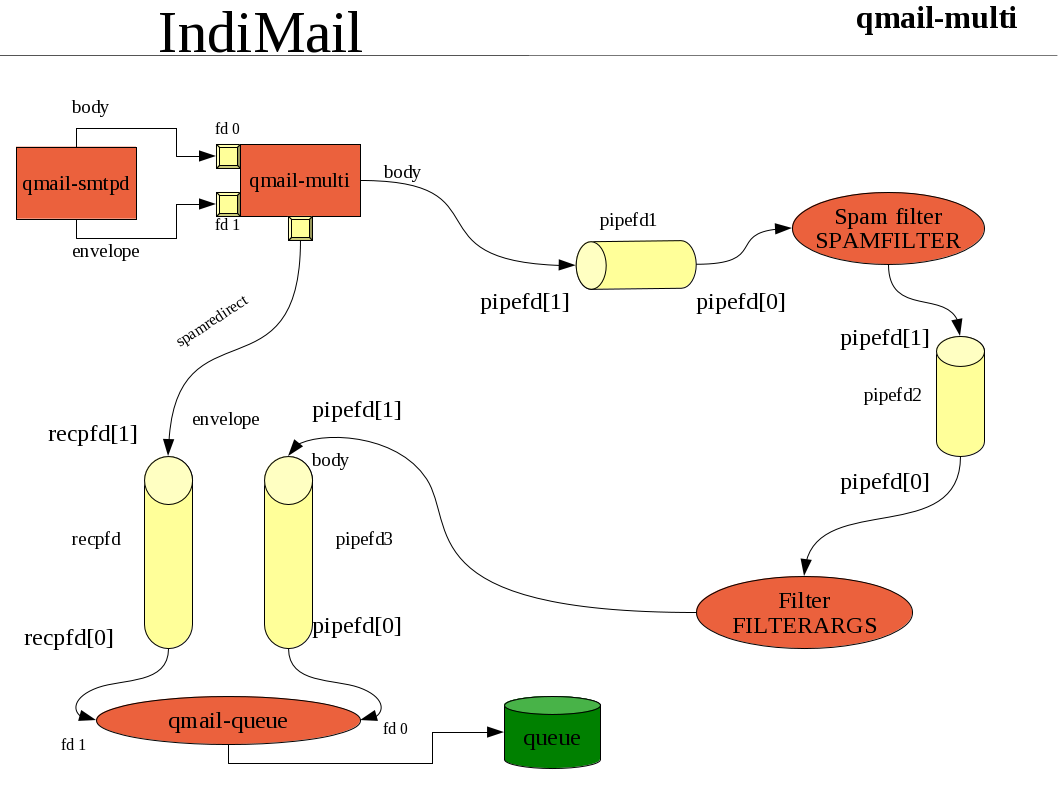
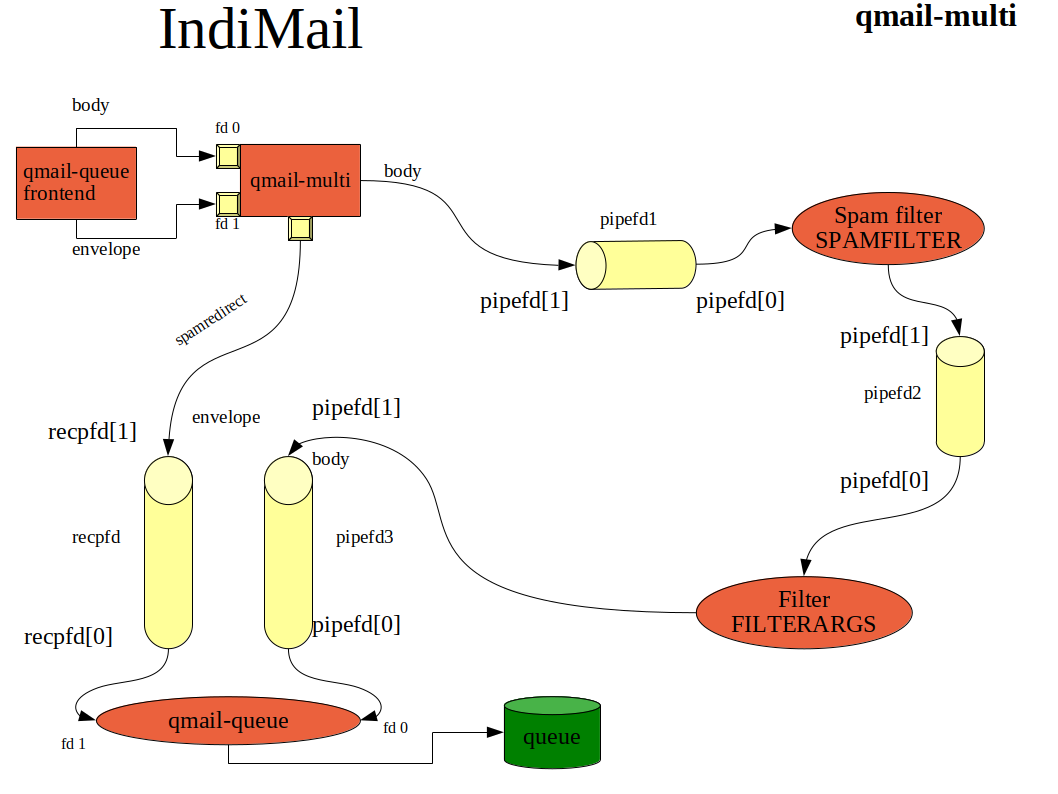
updated wiki

diff --git a/.github/README-indimail.md b/.github/README-indimail.md
@@ -220,7 +220,7 @@ To migrate from an existing proprietary mail server like MS Exchange requires 5 
 4. Modify your user's mail configuration to use SMTP, IMAP Proxy, POP3 Proxy ports on the IndiMail server (**proxypop3**, **proxyimap**)
 5. Change the MX to point to the indimail-mta server.
 
-IndiMail is highly configurable. No hard-coded directories of qmail like /var/qmail/control or /var/qmail/queue. All directories are configurable at run time. IndiMail has multiple queues and the queue destination directories are also configurable. You can have one IndiMail installation cater to multiple instances having different properties / configuration.  To set up a new IndiMail instance requires you to just set few environment variables. Unlike qmail/netqmail, IndiMail doesn't force you to recompile each time you require a new instance.  Multiple queues eliminates what is known as ['the silly qmail syndrome'](https://qmail.jms1.net/silly-qmail.shtml "silly-qmail-syndrome") and gives IndiMail the capability to perform better than a stock qmail installation. IndiMail's multiple queue architecture allows it to achieve tremendous inject rates using commodity hardware as can be read [here](http://groups.google.co.in/group/indimail/browse_thread/thread/f9e0b6214d88ca6d#). Here is a pictorial representation of the IndiMail queue ![Pictorial](indimail_queue.png).
+IndiMail is highly configurable. No hard-coded directories of qmail like /var/qmail/control or /var/qmail/queue. All directories are configurable at run time. IndiMail has multiple queues and the queue destination directories are also configurable. You can have one IndiMail installation cater to multiple instances having different properties / configuration.  To set up a new IndiMail instance requires you to just set few environment variables. Unlike qmail/netqmail, IndiMail doesn't force you to recompile each time you require a new instance.  Multiple queues eliminates what is known as ['the silly qmail syndrome'](https://qmail.jms1.net/silly-qmail.shtml "silly-qmail-syndrome") and gives IndiMail the capability to perform better than a stock qmail installation. IndiMail's multiple queue architecture allows it to achieve tremendous inject rates using commodity hardware as can be read [here](http://groups.google.co.in/group/indimail/browse_thread/thread/f9e0b6214d88ca6d#). You can see a pictorial representation of the queue as well as read the [indimail-mta INTERNALS](#indimail-mta-internals).
 
 IndiMail is a pure messaging solution. It does not provide calendars, todo lists, address books, meeting requests and a web mail front-end. However, you can use [RoundCubemail](https://roundcube.net/ "RoundCubemail") or any web mail front-end that works with IMAP or POP3 protocol with IndiMail. If you decide to install [RoundCubemail](https://roundcube.net/ "RoundCubemail"), you can install the **ircube** package from the IndiMail's DNF/YUM/Debian [Repository](https://build.opensuse.org/package/show/home:indimail/ircube "ircube") to have a fully functional web mail front-end. The ircube package provides plugins for Rouncube Mail to manage your passwords, vacation and SPAM filters.
 
@@ -624,7 +624,7 @@ $ sudo command - command requires root privilege to run. sudo was used to gain r
 
 # IndiMail Queue Mechanism
 
-IndiMail has multiple queues and the queue destination directories are also configurable. You can have one IndiMail installation cater to multiple instances having different properties / configuration. To set up a new IndiMail instance requires you to just set few environment variables. Unlike qmail/netqmail, IndiMail doesn't force you to recompile each time you require a new instance. Multiple queues eliminates what is known as ['the silly qmail syndrome'](https://qmail.jms1.net/silly-qmail.shtml "silly-qmail-syndrome") and gives IndiMail the capability to perform better than a stock qmail installation. IndiMail's multiple queue architecture allows it to achieve tremendous inject rates using commodity hardware as can be read [here](http://groups.google.co.in/group/indimail/browse_thread/thread/f9e0b6214d88ca6d#). Here is a pictorial representation of the IndiMail queue ![Pictorial](indimail_queue.png).
+IndiMail has multiple queues and the queue destination directories are also configurable. You can have one IndiMail installation cater to multiple instances having different properties / configuration. To set up a new IndiMail instance requires you to just set few environment variables. Unlike qmail/netqmail, IndiMail doesn't force you to recompile each time you require a new instance. Multiple queues eliminates what is known as ['the silly qmail syndrome'](https://qmail.jms1.net/silly-qmail.shtml "silly-qmail-syndrome") and gives IndiMail the capability to perform better than a stock qmail installation. IndiMail's multiple queue architecture allows it to achieve tremendous inject rates using commodity hardware as can be read [here](http://groups.google.co.in/group/indimail/browse_thread/thread/f9e0b6214d88ca6d#).
 
 When you have massive injecting rates, your software may place multiple files in a single directory. This drastically reduces file system performance. IndiMail avoids this by injecting your email in a queue consisting of multiple directories and mails distributed as evenly as possible across these directories.
 
@@ -646,13 +646,15 @@ Balancing of emails across multiple queues is achieved by the program qmail-mult
 14. replier
 15. rrforward
 
-The diagram below shows how qmail-multi(8) works ![qmail-multi](qmail_multi.png)
-
-You just need to configure the following environment variables to have the qmail-queue(8) frontends using qmail-multi(8)
+You just need to configure the following environment variables to have the qmail-queue(8) frontends use qmail-multi(8)
 
 1. QUEUE\_BASE – Base directory where all queues will be placed
 2. QUEUE\_COUNT – number of queues
 3. QUEUE\_START – numeric prefix of the first queue
+4. QMAILQUEUE - Path of qmail-multi (/usr/sbin/qmail-multi)
+5. QUEUEDIR - Not required if you set QUEUE\_BASE, QUEUE\_COUNT, QUEUE\_START. Else it should be full path to a queue (e.g. /var/indimail/queue/queue3). If QUEUEDIR is set, then QUEUE\_BASE, QUEUE\_COUNT and QUEUE\_START are not used.
+
+qmail-multi's job is to select a queue. indimail-mta uses multiple queue. If QUEUEDIR is set, it execs qmail-queue without doing anything. If QUEUEDIR is not defined, it uses QUEUE\_START, QUEUE\_COUNT and QUEUE\_BASE environment variables to set QUEUEDIR environment variable. QUEUE\_BASE is the common basename for all the queues. e.g. QUEUE\_BASE=/var/indimail/queue. Now, if QUEUE\_START is 1, QUEUE\_COUNT is 5, then qmail-multi will use the time to do a modulus operation and get a number ranging from 1 to 5. It will then set the QUEUEDIR environment variable to set any of the 5 queues in /var/indimail/queue. e.g. QUEUEDIR=/var/indimail/queue/queueX, where X is the number selected between 1 to 5. It then does a exec of qmail-queue. Throughout this document we will abbreviate /var/indimail/queue/queueX as queueX.
 
 e.g. If you want IndiMail to use 10 queues, this is what you will do
 
@@ -700,30 +702,21 @@ $ sudo svc -u /service/qmail-smtpd* /service/qmail-send.25 /service/qmail-qm?pd.
 
 Here's the data flow in the indimail-mta suite:
 
-```
-qmail-smtpd ---> qmail-multi --- qmail-queue
-                      /               |
-qmail-inject ________/                |
-                                      |
-<-------------------------------------+
-|
-+--> qmail-todo --- qmail-send --- qmail-rspawn --- qmail-remote
-                         |     \
-                    qmail-clean \_ qmail-lspawn --- qmail-local
-```
-Every message is added to a central queue directory by qmail-queue. qmail-queue is invoked by qmail-multi. The main purpose of qmail-multi is to select a queue in /var/indimail/queue directory and set the environment variable QUEUEDIR and exec qmail-queue. qmail-multi is invoked as needed, by setting QMAILQUEUE=/usr/sbin/qmail-queue, mostly by qmail-inject for locally generated messages, qmail-smtpd for messages received through SMTP, qmail-local for fqorwarded messages, or qmail-send for bounce messages.
+The diagram below shows how qmail-multi(8) works ![qmail-multi](qmail_multi.png)
 
-Every message is then pre-processed by qmail-todo and communicated to qmail-send for delivery.
+Every message is added to a central queue directory by qmail-queue. qmail-queue is invoked by qmail-multi. The main purpose of qmail-multi is to select a queue as discussed in [IndiMail Queue Mechanism](#indimail-queue-mechanism). Here is a pictorial representation of the IndiMail queue. ![Pictorial](indimail_queue.png)
 
-Every message is then delivered by qmail-send, in cooperation with qmail-lspawn and qmail-rspawn, and cleaned up by qmail-clean. These four programs are long-running daemons.
+qmail-multi is invoked as needed, by setting QMAILQUEUE=/usr/sbin/qmail-queue, mostly by qmail-inject for locally generated messages, qmail-smtpd for messages received through SMTP, qmail-local for forwarded messages, or qmail-send for bounce messages.
 
-The queue is designed to be crashproof, provided that the underlying filesystem is crashproof. All cleanups are handled by qmail-send and qmail-clean without human intervention. See section 6 for more details.
+Every message is then pre-processed by qmail-todo and then processed by qmail-send for delivery, in cooperation with qmail-lspawn, qmail-rspawn and cleaned up by qmail-clean. These five programs are long-running daemons.
+
+The queue is designed to be crashproof, provided that the underlying filesystem is crashproof. All cleanups are handled by qmail-send and qmail-clean without human intervention.
 
 ## Programs
 
 ### qmail-multi
 
-qmail-multi's job is to select a queue. indimail-mta uses multiple queue. If QUEUEDIR is set, it execs qmail-queue without doing anything. If QUEUEDIR is not defined, it uses QUEUE\_START, QUEUE\_COUNT and QUEUE\_BASE environment variables to set QUEUEDIR environment variable. QUEUE\_BASE is the common basename for all the queues. e.g. QUEUE\_BASE=/var/indimail/queue. Now, if QUEUE\_START is 1, QUEUE\_COUNT is 5, then qmail-multi will use the time to do a modulus operation and get a number ranging from 1 to 5. It will then set the QUEUEDIR environment variable to set any of the 5 queues in /var/indimail/queue. e.g. QUEUEDIR=/var/indimail/queue/queueX, where X is the number selected between 1 to 5. It then does a exec of qmail-queue. Throughout this document we will abbreviate /var/indimail/queue/queueX as queueX.
+We have already discussed qmail-multi in [IndiMail Queue Mechanism](#indimail-queue-mechanism). qmail-multi can also do spam filtering before a message gets queued. See [SPAM Control using bogofilter](#spam-control-using-bogofilter) for more details.
 
 ### qmail-queue
 
